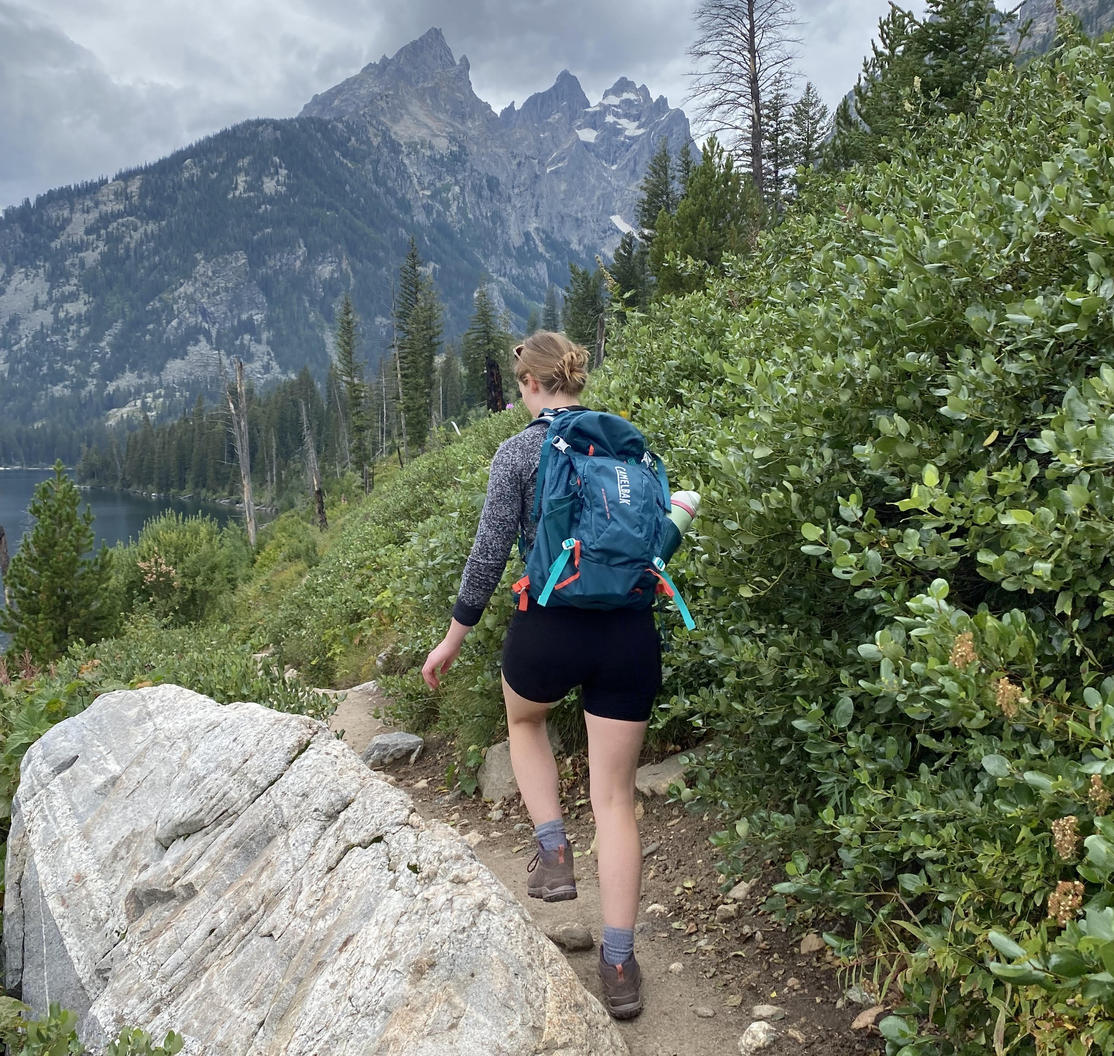
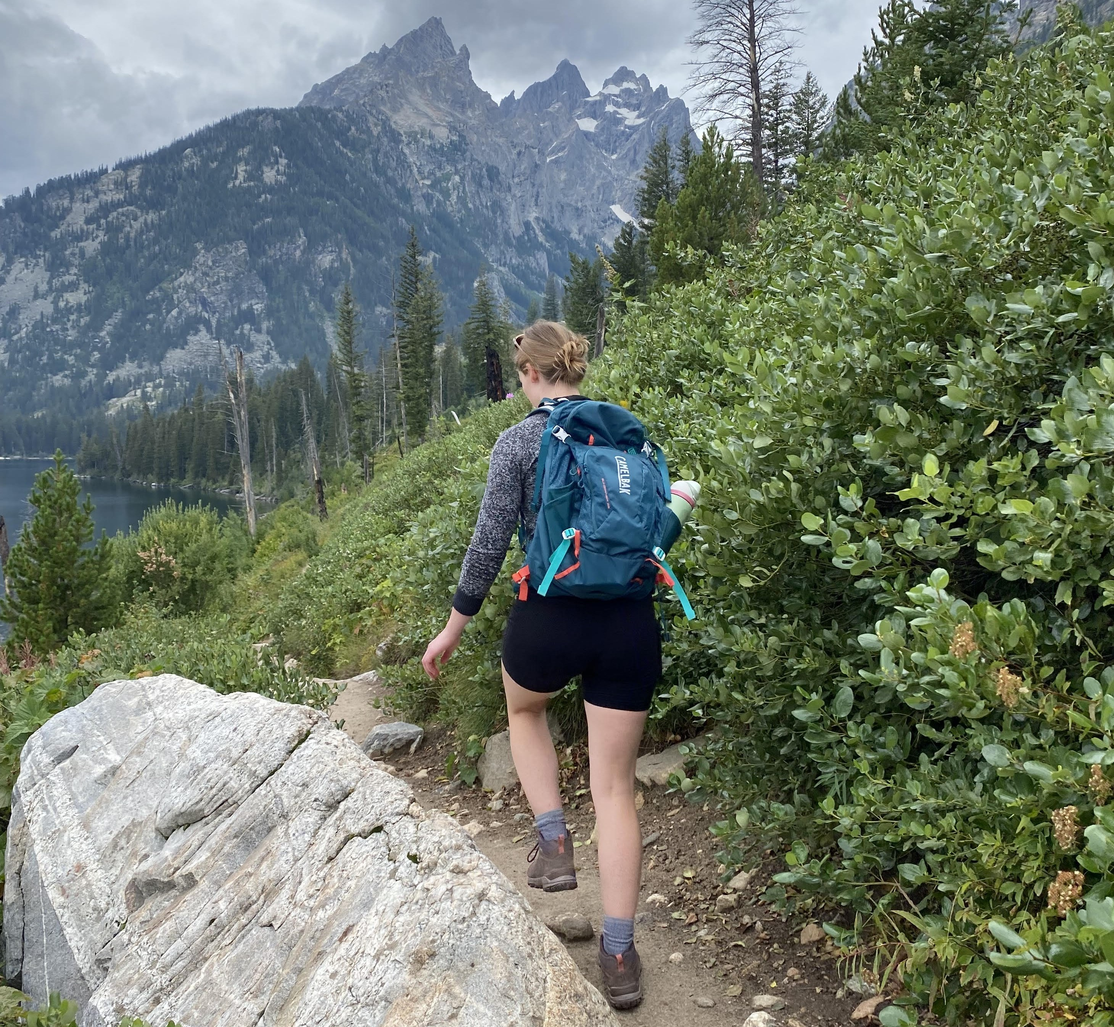
updated semi-private training + photos

diff --git a/Pages/training.html b/Pages/training.html
@@ -44,17 +44,13 @@
   <div class="px-4 py-5 text-center border-bottom">
     <h1 class="display-5 fw-bold blueFont yantramanav-medium">Semi-Private Training</h1>
     <div class="col-lg-6 mx-auto">
-      <p class="lead mb-4">Our semi-private training classes are designed to help individuals feel more comfortable in the gym and achieve specific fitness goals.</p>
-      <div class="d-grid gap-2 d-md-flex justify-content-center">
-        <a href="https://fearlessptf.janeapp.com/#/discipline/2/treatment/8">
-          <button class="darkButton">Schedule a FREE Discovery Call</button>
-        </a>
-      </div>
+      <p class="lead mb-4">Semi-Private Training includes four-week programs tailored to specific fitness topics or goals. Examples of semi-private topics include an introduction to barbell training or golf performance. These topics change depending on the season, allowing you to prepare your body to participate in your activities at a higher level without fear.</p>
+
     </div>
   </div>
 <section id="grayBackground">
   <div class="container px-4 py-5">
-  <div class="accordion" id="accordionExample">
+  <div class="accordion shadow-lg" id="accordionExample">
     <div class="accordion-item">
       <h2 class="accordion-header" id="headingOne">
         <button class="accordion-button lightButton" type="button" data-bs-toggle="collapse" data-bs-target="#collapseOne" aria-expanded="true" aria-controls="collapseOne">
@@ -63,7 +59,10 @@
       </h2>
       <div id="collapseOne" class="accordion-collapse collapse show" aria-labelledby="headingOne" data-bs-parent="#accordionExample">
         <div class="accordion-body">
-          <p>Semi-private training is personal training in a small group setting. We highlight key aspects from personal training such as personalized training, 1:1 meetings with your coach, and individual coaching and guidance, while including the encouragement and camaraderie gained from a group training setting. Classes are small, up to five individuals, allowing for personalized coaching and guidance.</p>
+          <p>Semi-private training is conducted in small groups of up to five individuals. Each training block lasts 4 weeks and includes two in-person sessions per week. Every block will focus on new performance goals that change seasonally. 
+        </p><p>
+            The semi-private format combines the benefits of personal training and group fitness. With classes limited to five participants, you'll receive more personalized coaching and guidance compared to larger classes, along with templates for tracking your progress. You'll also benefit from training alongside a small group of like-minded individuals, fostering a supportive and motivating environment.
+            </p>
         </div>
       </div>
     </div>
@@ -75,19 +74,7 @@
       </h2>
       <div id="collapseTwo" class="accordion-collapse collapse" aria-labelledby="headingTwo" data-bs-parent="#accordionExample">
         <div class="accordion-body">
-         <p>Semi-private training caters to people seeking a more personalized and goal oriented training approach. Whether you are looking for a program to help you achieve your fitness goals, haven't been to the gym in a while, or have a pre-existing injury, our semi-private training sessions have you covered. </p>
-        </div>
-      </div>
-    </div>
-    <div class="accordion-item">
-      <h2 class="accordion-header" id="headingThree">
-        <button class="accordion-button collapsed lightButton" type="button" data-bs-toggle="collapse" data-bs-target="#collapseThree" aria-expanded="false" aria-controls="collapseThree">
-          What do the workouts look like?
-        </button>
-      </h2>
-      <div id="collapseThree" class="accordion-collapse collapse" aria-labelledby="headingThree" data-bs-parent="#accordionExample">
-        <div class="accordion-body">
-          <p>Workouts are individualized to you and your goals. In our semi-private training, you will recieve the opportunity to have a monthly 1:1 meeting with your coach to keep you moving forward. </p>
+         <p>These programs cater to people seeking a more personalized and goal-oriented fitness approach. Whether you’re wanting to become more comfortable in the gym setting, looking for more technical support and coach guidance, or seeking tailored programing for a specific topic, our Semi-Private Training has you covered. With a limit of five people per group, Semi-Private Training allows you to receive a level of attention unavailable in larger group settings.</p>
         </div>
       </div>
     </div>
@@ -98,19 +85,19 @@
 
 
   <div class="px-4 py-5 text-center border-top">
-    <h1 class="display-5 fw-bold blueFont yantramanav-medium">Semi-Private Personal Training Pricing</h1>
+    <h1 class="display-5 fw-bold blueFont yantramanav-medium">Pricing</h1>
     <div class="col-lg-6 mx-auto">
       <p class="lead mb-4">For any additional questions, reach out by email at rogers@fearlessptf.com or give us a call: (612) 200-2331</p>
     </div>
       <div class="container">
 <div class="row row-cols-1 row-cols-md-1 mb-3 text-center">
     <div class="col">
-      <div class="card mb-4 rounded-3 shadow-sm">
+      <div class="card mb-4 rounded-3 shadow-lg">
         <div class="card-header py-3">
-          <h4 class="my-0 fw-normal">Semi-Private Personalized Training</h4>
+          <h4 class="my-0 fw-normal">Semi-Private Training</h4>
         </div>
         <div class="card-body">
-          <h1 class="card-title pricing-card-title">$799<small class="text-body-secondary fw-light">/mo</small></h1>
+          <h1 class="card-title pricing-card-title">$300<small class="text-body-secondary fw-light">/mo</small></h1>
           <ul class="list-unstyled mt-3 mb-4">
             <li>4 Week semi-private program</li>
             <li>2 Training Sessions per Week</li>
@@ -122,6 +109,46 @@
 </div>
   </div>
 
+  <section id="grayBackground">
+    <div class="px-4 py-5 text-center border-top">
+        <h1 class="display-5 fw-bold blueFont yantramanav-medium">Schedule</h1>
+        <div class="col-lg-6 mx-auto">
+          <p class="lead mb-4">Subject to change, for most current updated schedule reach out at rogers@fearlessptf.com or give us a call: (612) 200-2331</p>
+        </div>
+        <div class="container">
+            <div class="row row-cols-1 row-cols-md-2 mb-3 text-center">
+                <div class="col">
+                  <div class="card mb-4 rounded-3 shadow-lg">
+                    <div class="card-header py-3">
+                      <h4 class="my-0 fw-normal">July</h4>
+                    </div>
+                    <div class="card-body">
+                      <h4 class="card-title pricing-card-title">No Classes Scheduled</h4>
+                      <ul class="list-unstyled mt-3 mb-4">
+                        <li>We currently are not offering classes in the month of July. </li>
+                      </ul>
+                    </div>
+                  </div>
+                </div>
+                <div class="col">
+                  <div class="card mb-4 rounded-3 shadow-lg">
+                    <div class="card-header py-3">
+                      <h4 class="my-0 fw-normal">August</h4>
+                    </div>
+                    <div class="card-body">
+                        <h4 class="card-title pricing-card-title">Introduction to Barbell</h4>
+                        <ul class="list-unstyled mt-3 mb-4">
+                          <li>This session focuses on teaching you the fundamentals of barbell exercises. You'll learn proper form, technique, and gain the confidence to incorporate barbells into your regular workout routine.</li>
+                          <br>
+                          <li><strong>Date & Time:</strong> TBD </li>
+                        </ul>
+                    </div>
+                  </div>
+                </div>
+              </div>
+            </div>
+
+  </section>
 
 
     <section id="footer">

diff --git a/Pages/location.html b/Pages/location.html
@@ -32,7 +32,7 @@
               <a class="dropdown-item yantramanav-medium customDropNav" href="../Pages/fitness.html">Overview</a>
                 <div class="dropdown-divider"></div>
               <a class="dropdown-item yantramanav-medium customDropNav" href="../Pages/classes.html"> Group Fitness Classes</a>
-              <a class="dropdown-item yantramanav-medium customDropNav" href="#"> Semi-Private Training</a>
+              <a class="dropdown-item yantramanav-medium customDropNav" href="../Pages/training.html"> Semi-Private Training</a>
             </div>
           </li>
           <li class="nav-item yantramanav-medium"><a href="../Pages/location.html" class="nav-link customNav">Contact</a></li>
@@ -56,7 +56,7 @@
                 <br>
                 <h4 class="yantramanav-medium blueFont">21897 S. Diamond Lake Road</h4>
                 <h4 class="yantramanav-medium blueFont">Suite 100</h4>
-                <h4 class="yantramanav-medium blueFont">Rodgers, MN 55374</h4>
+                <h4 class="yantramanav-medium blueFont">Rogers, MN 55374</h4>
                 <br>
                 <h4 class="yantramanav-medium blueFont">(612) 200-2331</h4>
                 <br>

diff --git a/Pages/aboutUs.html b/Pages/aboutUs.html
@@ -33,7 +33,7 @@
               <a class="dropdown-item yantramanav-medium customDropNav" href="../Pages/fitness.html">Overview</a>
                 <div class="dropdown-divider"></div>
               <a class="dropdown-item yantramanav-medium customDropNav" href="../Pages/classes.html"> Group Fitness Classes</a>
-              <a class="dropdown-item yantramanav-medium customDropNav" href="#"> Semi-Private Training</a>
+              <a class="dropdown-item yantramanav-medium customDropNav" href="../Pages/training.html"> Semi-Private Training</a>
             </div>
           </li>
           <li class="nav-item yantramanav-medium"><a href="../Pages/location.html" class="nav-link customNav">Contact</a></li>
@@ -81,7 +81,7 @@
                     </div>
                   </div>
                   <div class="carousel-item">
-                    <img src="../Photos/annaHike.jpg" class="d-block w-100" alt="Big Hike">
+                    <img src="../Photos/tamiDive.jpg" class="d-block w-100" alt="Big Hike">
                     <div class="carousel-caption d-none d-md-block">
                     </div>
                   </div>

diff --git a/Pages/classes.html b/Pages/classes.html
@@ -32,7 +32,7 @@
                 <a class="dropdown-item yantramanav-medium customDropNav" href="../Pages/fitness.html">Overview</a>
                   <div class="dropdown-divider"></div>
                 <a class="dropdown-item yantramanav-medium customDropNav" href="../Pages/classes.html"> Group Fitness Classes</a>
-                <a class="dropdown-item yantramanav-medium customDropNav" href="#"> Semi-Private Training</a>
+                <a class="dropdown-item yantramanav-medium customDropNav" href="../Pages/training.html"> Semi-Private Training</a>
               </div>
             </li>
             <li class="nav-item yantramanav-medium"><a href="../Pages/location.html" class="nav-link customNav">Contact</a></li>

diff --git a/index.html b/index.html
@@ -33,7 +33,7 @@
                 <a class="dropdown-item yantramanav-medium customDropNav" href="./Pages/fitness.html">Overview</a>
                   <div class="dropdown-divider"></div>
                 <a class="dropdown-item yantramanav-medium customDropNav" href="./Pages/classes.html"> Group Fitness Classes</a>
-                <a class="dropdown-item yantramanav-medium customDropNav" href="#"> Semi-Private Training</a>
+                <a class="dropdown-item yantramanav-medium customDropNav" href="./Pages/training.html"> Semi-Private Training</a>
               </div>
             </li>
             <li class="nav-item yantramanav-medium"><a href="./Pages/location.html" class="nav-link customNav">Contact</a></li>

diff --git a/Pages/fitness.html b/Pages/fitness.html
@@ -32,7 +32,7 @@
               <a class="dropdown-item yantramanav-medium customDropNav" href="../Pages/fitness.html">Overview</a>
                 <div class="dropdown-divider"></div>
               <a class="dropdown-item yantramanav-medium customDropNav" href="../Pages/classes.html"> Group Fitness Classes</a>
-              <a class="dropdown-item yantramanav-medium customDropNav" href="#"> Semi-Private Training</a>
+              <a class="dropdown-item yantramanav-medium customDropNav" href="../Pages/training.html"> Semi-Private Training</a>
             </div>
           </li>
           <li class="nav-item yantramanav-medium"><a href="../Pages/location.html" class="nav-link customNav">Contact</a></li>

diff --git a/Pages/physicalTherapy.html b/Pages/physicalTherapy.html
@@ -32,7 +32,7 @@
               <a class="dropdown-item yantramanav-medium customDropNav" href="../Pages/fitness.html">Overview</a>
                 <div class="dropdown-divider"></div>
               <a class="dropdown-item yantramanav-medium customDropNav" href="../Pages/classes.html"> Group Fitness Classes</a>
-              <a class="dropdown-item yantramanav-medium customDropNav" href="#"> Semi-Private Training</a>
+              <a class="dropdown-item yantramanav-medium customDropNav" href="../Pages/training.html"> Semi-Private Training</a>
             </div>
           </li>
           <li class="nav-item yantramanav-medium"><a href="../Pages/location.html" class="nav-link customNav">Contact</a></li>
